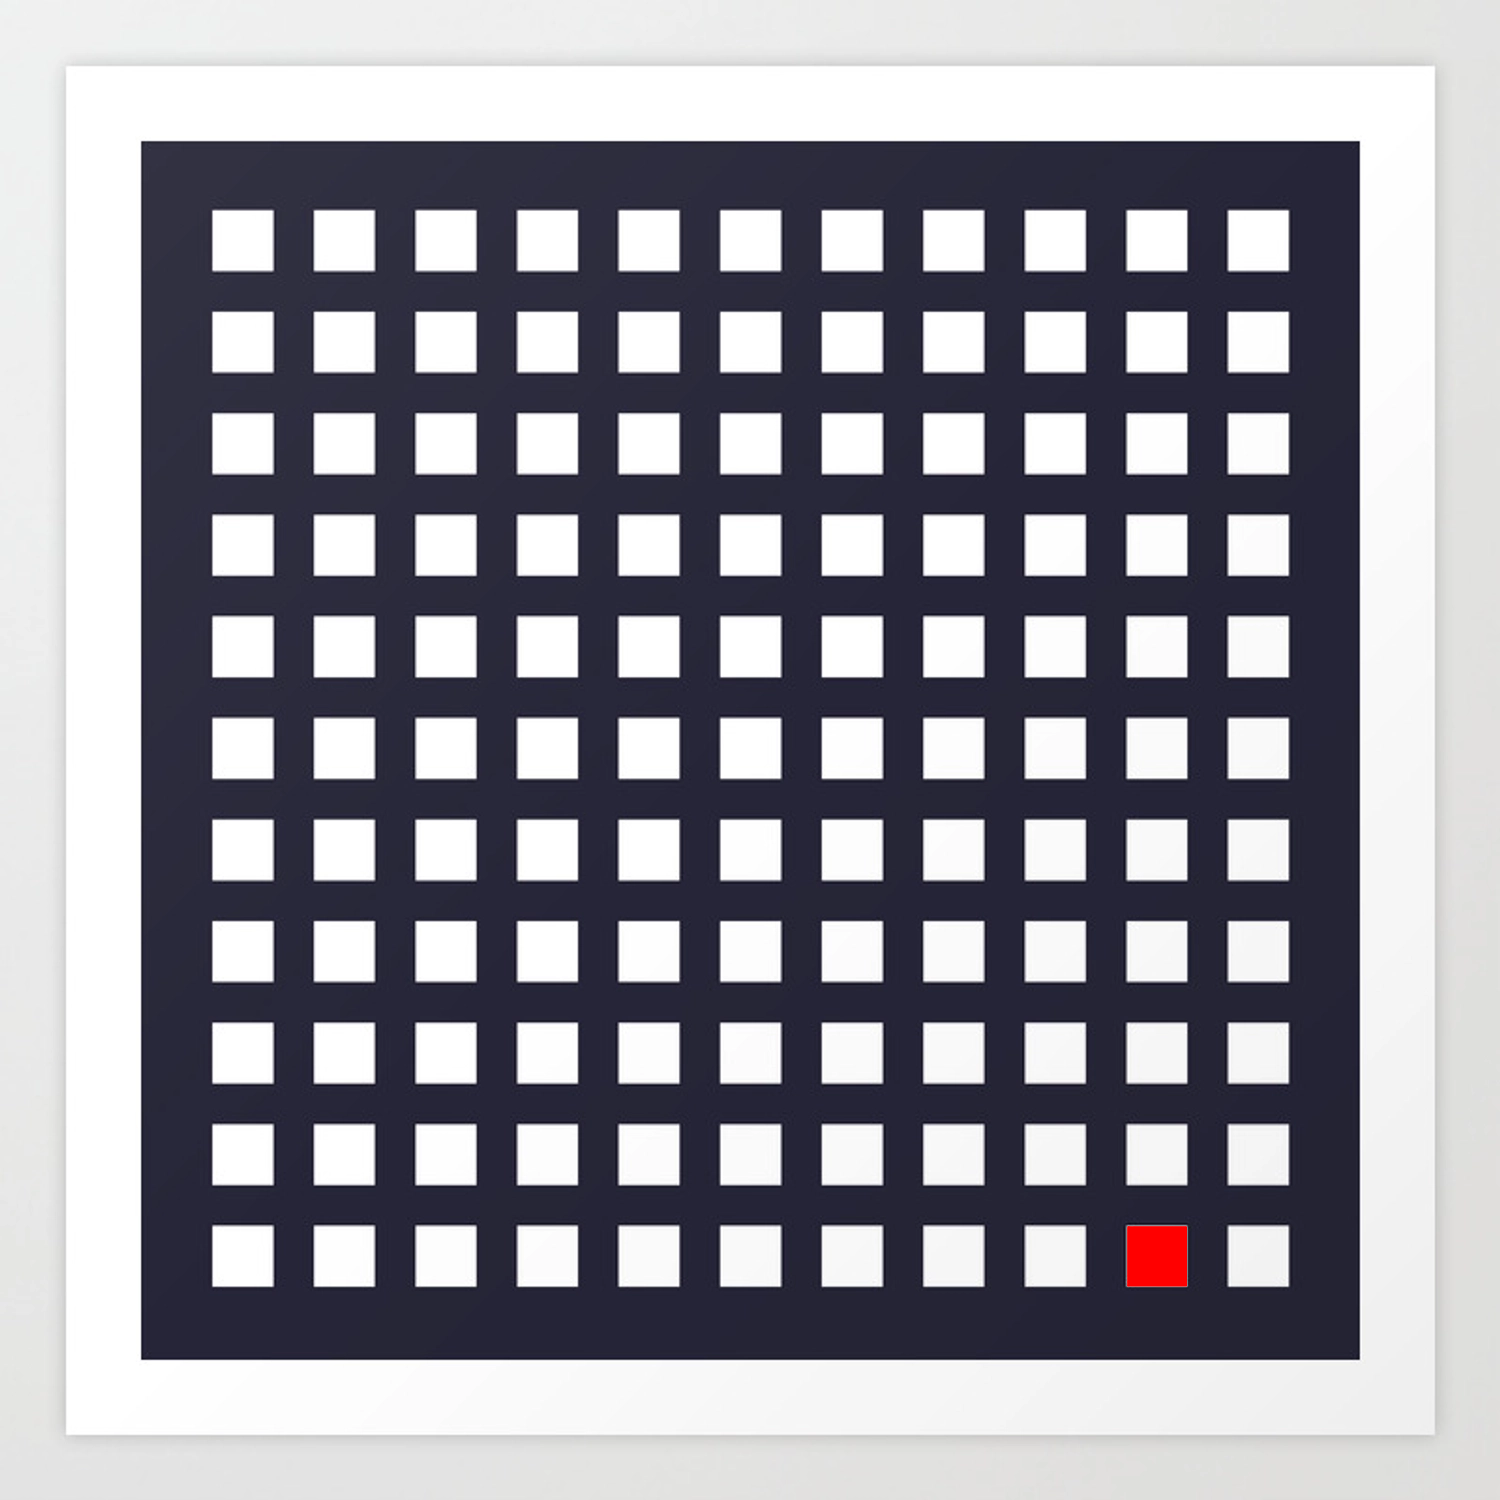
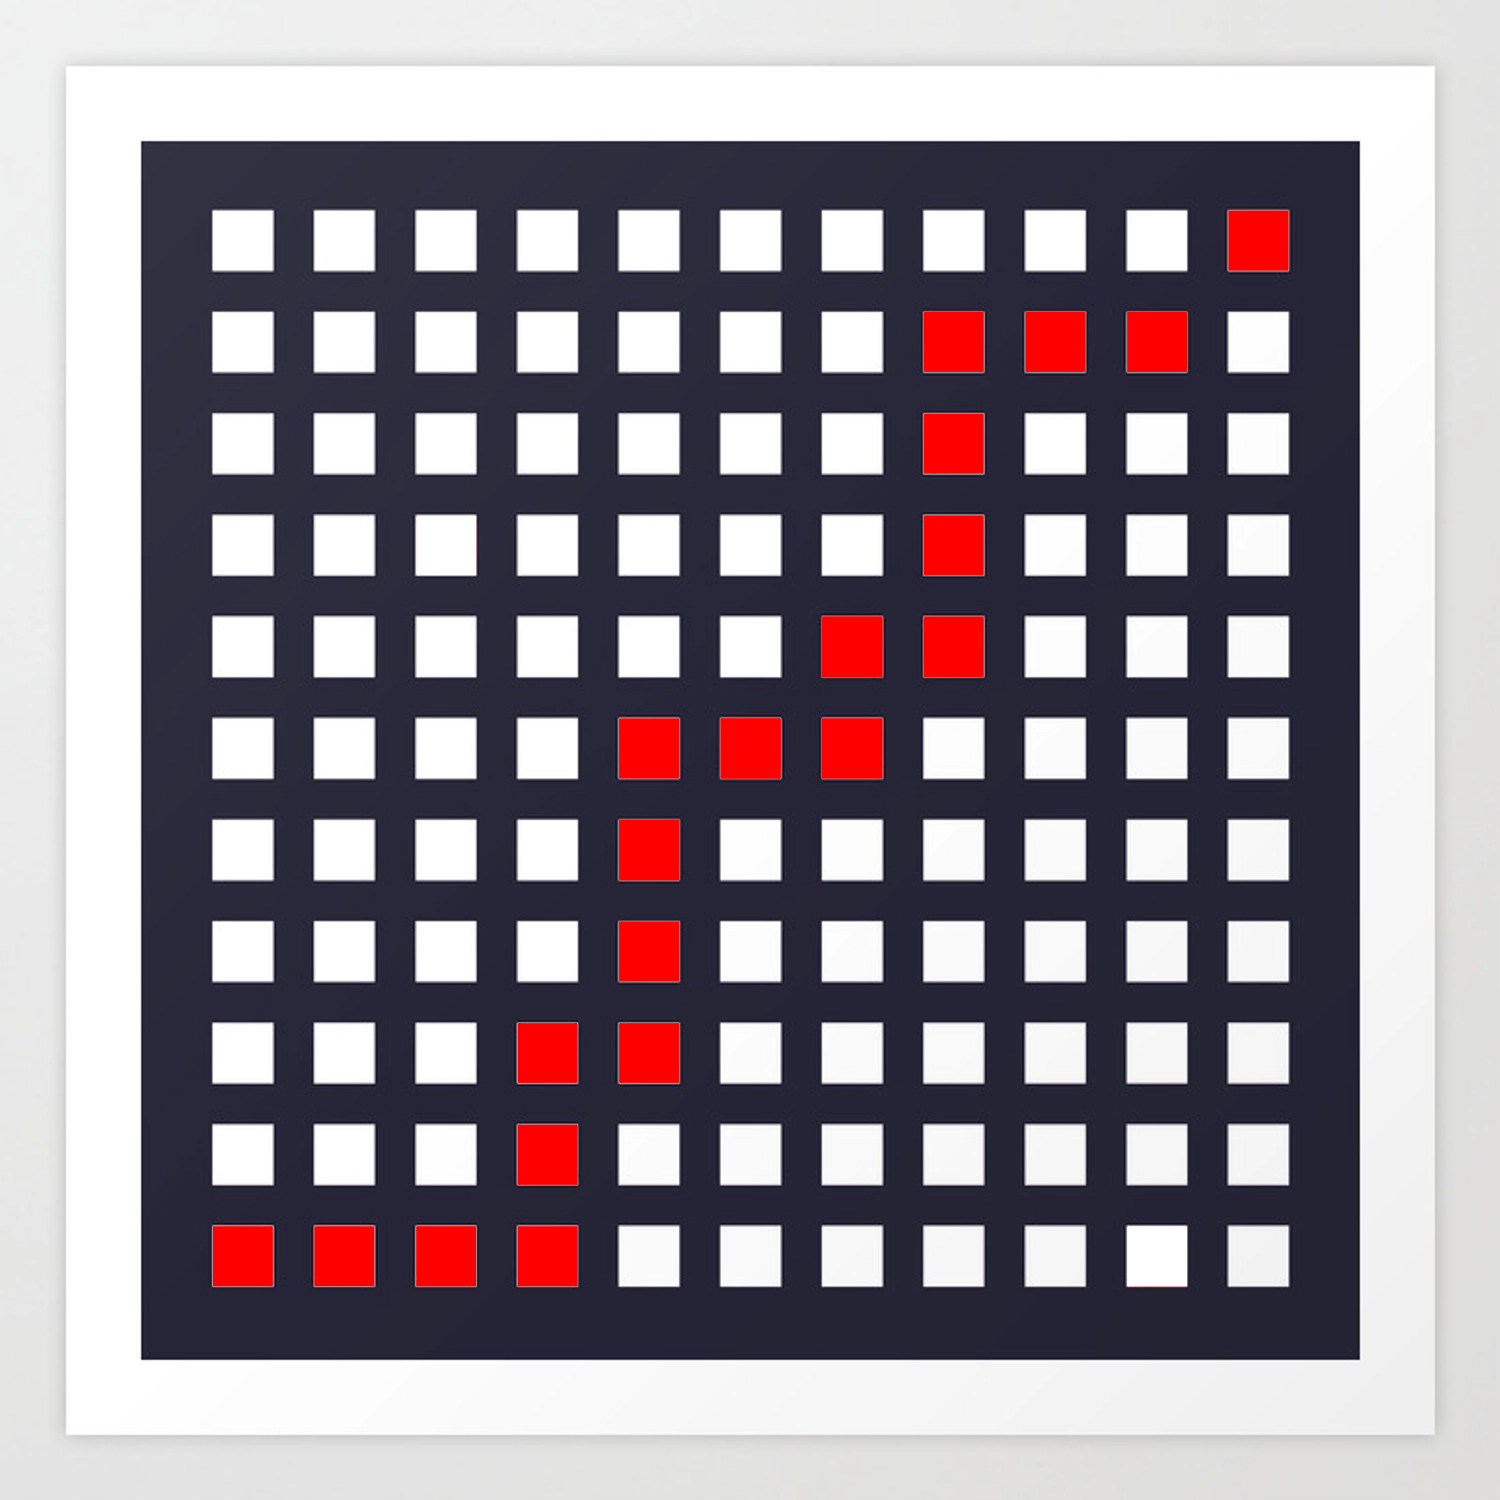
finally got this shit to work

Changed region(s): [[0.1227, 0.184, 0.7973, 0.8587], [0.7973, 0.1227, 0.8587, 0.184], [0.736, 0.7973, 0.7973, 0.8587]]

diff --git a/opencv/gridreader45974.py b/opencv/gridreader45974.py
@@ -1,7 +1,6 @@
-import cv2
-from imutils import contours
 import numpy as np
-import os 
+import cv2
+import os
 
 def reorder(points):
     points = points.reshape((4, 2))
@@ -14,14 +13,17 @@ def reorder(points):
     npoints[2] = points[np.argmax(diff)]
     return npoints
 
-
+# imports image
 current_dir = os.getcwd()
 print(current_dir)
 image = cv2.imread("grid1red.png")
 side_count = 11 # num squares on a single side of the grid
-widthImg = heightImg = side_count * 50
+widthImg = heightImg = side_count * 50 + 50
 # converts to monochrome
 gray = cv2.cvtColor(image, cv2.COLOR_BGR2GRAY)
+#blurs image slightly
+# blur = cv2.GaussianBlur(gray, (5,5), 0)
+# adaptive thresholding                             this digit controls how much gets subtracted
 thresh = cv2.adaptiveThreshold(gray, 255, 1, 1, 13, 10)
 
 # finds all contours
@@ -43,52 +45,32 @@ for i in cnts:
 # warps perspective to ensure the gridlines are straight as possible
 if biggest.size != 0:
     biggest = reorder(biggest)
-    cv2.drawContours(image, biggest, -1, (0, 0, 255), 10)
     pts1 = np.float32(biggest)
     pts2 = np.float32([[0, 0], [widthImg, 0], [0, heightImg], [widthImg, heightImg]])
     matrix = cv2.getPerspectiveTransform(pts1, pts2)
     warpedImgColor = cv2.warpPerspective(image, matrix, (widthImg, heightImg))
     warpedImgBW = cv2.cvtColor(warpedImgColor, cv2.COLOR_BGR2GRAY)
 
-# apply the same blur to the new image
-blur = cv2.GaussianBlur(warpedImgBW, (5,5), 0)
-thresh = cv2.adaptiveThreshold(warpedImgBW, 255, 1, 1, 13, 4)
+def isRed(color):
+    if color[0] not in range(0,7):
+        return False
+    if color[1] not in range(0, 100):
+        return False
+    if color[2] not in range(100, 256):
+        return False
+    return True
+
 grid = np.zeros((side_count, side_count), dtype=int)
 
-invert = 255 - thresh
-contours2 = cv2.findContours(thresh, cv2.RETR_EXTERNAL, cv2.CHAIN_APPROX_SIMPLE)
-contours2 = contours2[0] if len(contours2) == 2 else contours2[1]
-(contours2, _) = contours.sort_contours(contours2, method = "top-to-bottom")
-print(len(contours2))
-grid_rows = []
-row = []
-total = 0
-for (i, c) in enumerate(contours2, 1):
-    area = cv2.contourArea(c)
-    if area > 50:
-        row.append(c)
-        if i % side_count == 0:
-            (contours3, _) = contours.sort_contours(row, method="left-to-right")
-            grid_rows.append(contours3)
-            row = []
+for x in range (1, side_count + 1):
+    for y in range (1, side_count + 1):
+        cv2.circle(warpedImgColor, (50 * x, 50 * y), 2, (0, 255, 0))
+        if isRed(warpedImgColor[x * 50, y * 50]):
+            grid[x - 1, y - 1] = 1
 
-for i, row in enumerate(grid_rows):
-    for i2, c in enumerate(row):
-        pass
+        
 
-for row in grid_rows:
-    for c in row:
-        mask = np.zeros(warpedImgColor.shape, dtype=np.uint8)
-        cv2.drawContours(mask, [c], -1, (0, 255, 0), 1)
-        # cv2.imshow('mask', mask)
-        # cv2.waitKey()
-        # result = cv2.bitwise_and(warpedImgColor, mask)
-        # result[mask==0] = 255
-        # cv2.imshow('result', result)
-        # cv2.waitKey(15)
-
+cv2.imshow("image", warpedImgColor)
 print(grid)
 
 cv2.waitKey(0)
-
-cv2.destroyAllWindows()

diff --git a/opencv/gridreader.py b/opencv/gridreader.py
@@ -109,23 +109,21 @@ for (i, c) in enumerate(contours2, 1):
     if area > 50:
         row.append(c)
         if i % side_count == 0:
-            (contours3, _) = contours.sort_contours(row, method="left-to-right")
-            grid_rows.append(contours3)
+            (contours2, _) = contours.sort_contours(row, method="left-to-right")
+            grid_rows.append(contours2)
             row = []
-for i, row in enumerate(grid_rows):
-    for i2, c in enumerate(row):
-        # grid[i, i2] = 1
-        pass
+# for i, row in enumerate(grid_rows):
+#     for i2, c in enumerate(row):
+#         # grid[i, i2] = 1
+#         pass
 
 for row in grid_rows:
     for c in row:
         mask = np.zeros(warpedImgColor.shape, dtype=np.uint8)
-        cv2.drawContours(mask, [c], -1, (0, 255, 0), 1)
         cv2.imshow('mask', mask)
-        # cv2.waitKey()
-        # result = cv2.bitwise_and(warpedImgColor, mask)
-        # result[mask==0] = 255
-        # cv2.imshow('result', result)
+        result = cv2.bitwise_and(warpedImgColor, mask)
+        result[mask==0] = 255
+        cv2.imshow('result', result)
         cv2.waitKey(15)
 
 
